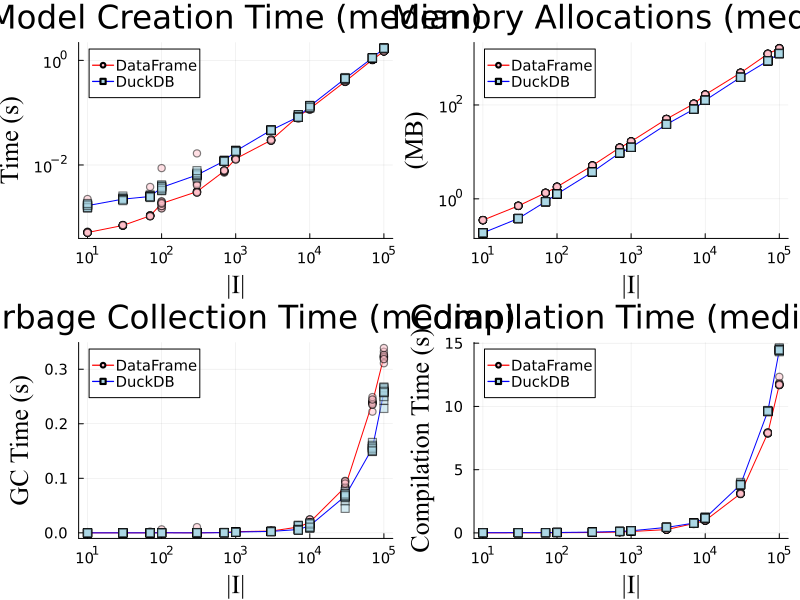
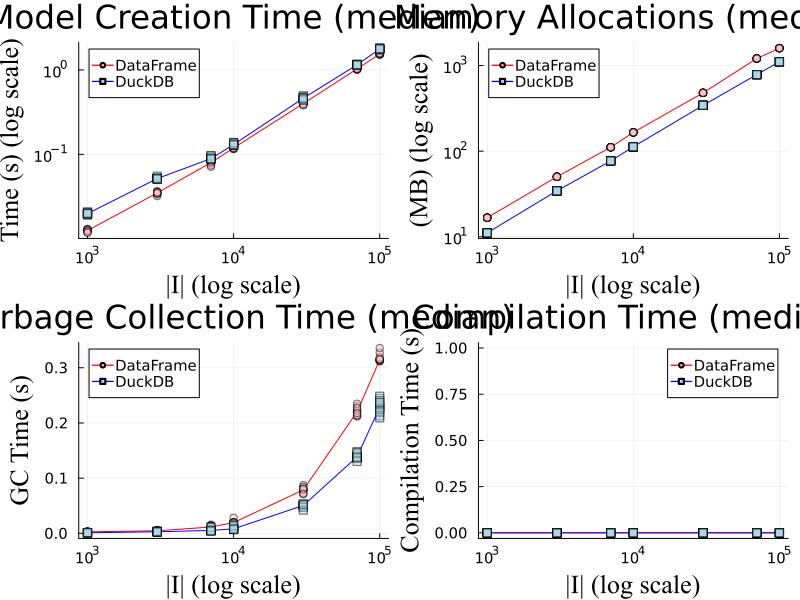
More tweaks

diff --git a/ijklm/main.py b/ijklm/main.py
@@ -17,7 +17,7 @@ np.random.seed(123)
 
 s7 = 2.65  # close to sqrt(7) so that s7 ** (n % 3) = [1, 3, 7]
 
-N = [round(s7 ** (n % 3)) * 10 ** (n // 3) for n in range(3, 19)]
+N = [round(s7 ** (n % 3)) * 10 ** (n // 3) for n in range(9, 19)]
 N = [n for n in N if n <= max_cardinality_of_i]
 
 J, K, L, M, JLK, KLM = data.create_fixed_data(m=cardinality_of_j)
